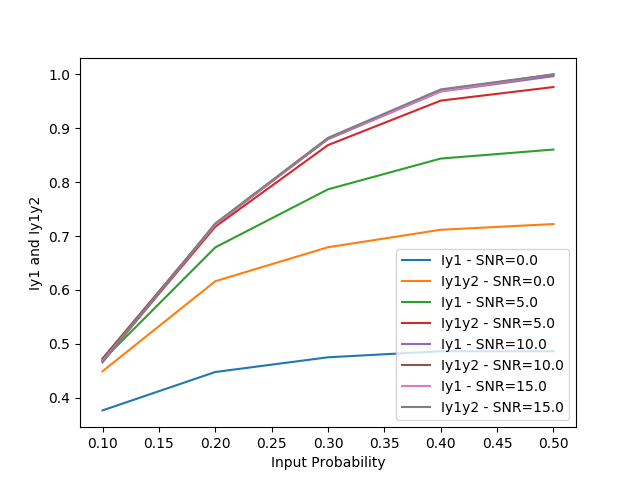
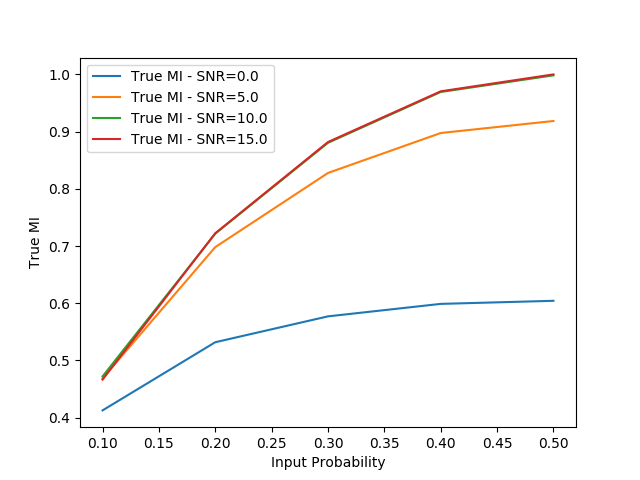
Comparision uploaded

diff --git a/Capacity_Estimation/plot_compare.py b/Capacity_Estimation/plot_compare.py
@@ -1,0 +1,32 @@
+import pandas as pd
+import numpy as np
+import matplotlib.pyplot as plt
+
+def get_MIs(df, snr, p):
+	temp = df.loc[(df['SNR'] == snr) & (df['Prob'] == p)]
+	return temp.iloc[0]['Iy1'], temp.iloc[0]['Iy1y2']
+
+df = pd.read_csv('results_md.csv')
+df = df.sort_values(['window'])
+
+true_df = pd.read_csv('MIs.csv')
+
+print(df)
+snrs = np.unique(df['SNR'].values)
+for i in snrs:
+	I1, I2 = get_MIs(true_df, i, 0.5)
+	temp = df.loc[df['SNR'] == i]
+	lab = "MI achieved - SNR=" + str(i)
+	pfa = temp['FAR']
+	acheived_mi = I1*(1+pfa)/2.0 + I2*(1-pfa)/2.0
+	plt.plot(temp['window'], acheived_mi, label=lab)
+
+	lab = "MI True - SNR=" + str(i)
+	true_mi = (I1*(1)/2.0 + I2*(1)/2.0) * np.ones(len(temp['window']))
+	plt.plot(temp['window'], true_mi, label=lab)
+
+plt.xlabel('Frame Lengths')
+plt.ylabel('MI Comparision')
+plt.legend()
+plt.savefig('Comparision.png')
+plt.show()

diff --git a/Capacity_Estimation/plot_MI.py b/Capacity_Estimation/plot_MI.py
@@ -8,13 +8,11 @@ print(df)
 snrs = np.unique(df['SNR'].values)
 for i in snrs:
 	temp = df.loc[df['SNR'] == i]
-	lab = "Iy1 - SNR=" + str(i)
-	plt.plot(temp['Prob'], temp['Iy1'], label=lab)
-	lab = "Iy1y2 - SNR=" + str(i)
-	plt.plot(temp['Prob'], temp['Iy1y2'], label=lab)
+	lab = "True MI - SNR=" + str(i)
+	plt.plot(temp['Prob'], 0.5*temp['Iy1'] + 0.5*temp['Iy1y2'], label=lab)
 
 plt.xlabel('Input Probability')
-plt.ylabel('Iy1 and Iy1y2')
+plt.ylabel('True MI')
 plt.legend()
 plt.savefig("MIideal_curve.png")
 plt.show()

diff --git a/Capacity_Estimation/MI_ideal.py b/Capacity_Estimation/MI_ideal.py
@@ -72,11 +72,6 @@ def Iy1y2(snr, p, h1=1, h2=1, N=10000):
 
     return MI
 
-    
-
-     
-
-
 if __name__ == "__main__":
     create_csv('MIs.csv')
     for snr in [0, 5.0, 10.0, 15.0]:
